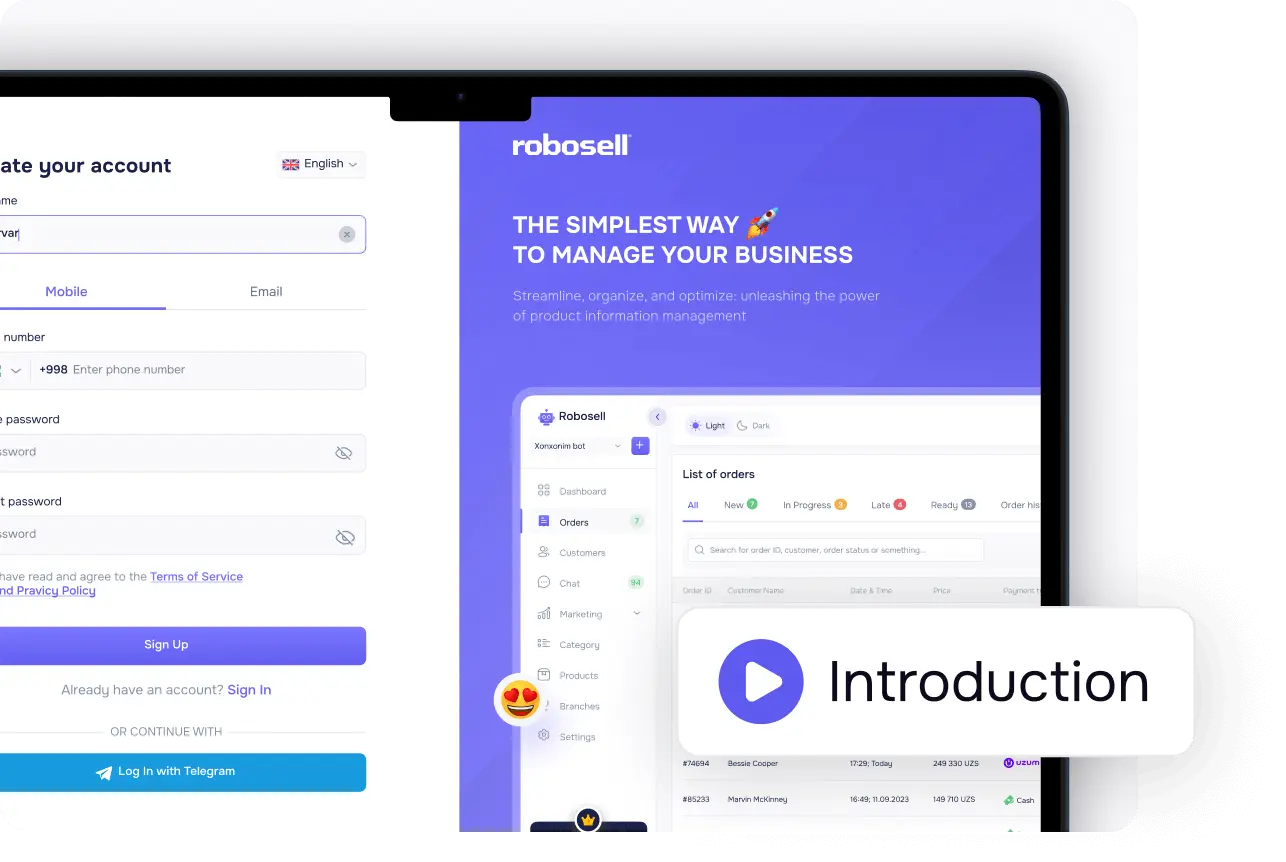
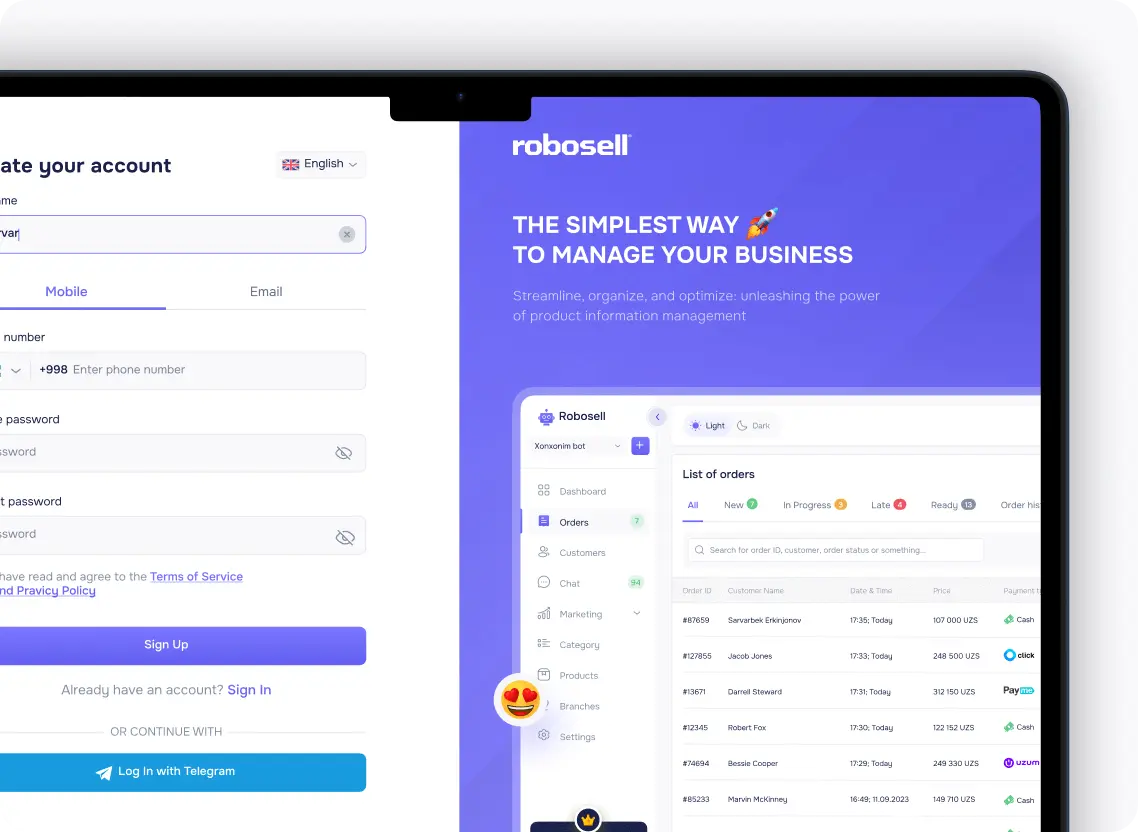
fix: anim

diff --git a/src/routes/home/components/instructions/instructions.tsx b/src/routes/home/components/instructions/instructions.tsx
@@ -1,45 +1,88 @@
 import Image from 'next/image'
 import Stack from '@mui/material/Stack'
+import Dialog from '@mui/material/Dialog'
 import { INSTRUCTIONS } from './constants'
-import { Wrapper, Container } from './style'
+import { IconPlay } from '@/assets/icons/play'
+import { useBoolean } from '@/hooks/useBoolean'
 import Typography from '@mui/material/Typography'
+import { Wrapper, WrapPlay, Container } from './style'
 import ImageHowWorksInstruction from '@/assets/images/how-works-instruction.webp'
 
 export const Instructions = () => {
+	const mouse = useBoolean()
+	const modal = useBoolean()
+
 	return (
-		<Container>
-			<Wrapper>
-				<Stack pt='18px'>
-					<Image fill src={ImageHowWorksInstruction.src} alt='res' />
-				</Stack>
-				<Stack>
-					<Typography variant='title10' component='h2'>
-						How It Works
-					</Typography>
-					<Typography mb='24px' component='h3' variant='text10'>
-						It takes only{' '}
-						<Typography component='span' fontWeight='500' variant='inherit' color='colors.BLACK'>
-							15 minutes
-						</Typography>{' '}
-						to create a store and you can start selling
-					</Typography>
-					<Stack component='ul'>
-						{INSTRUCTIONS.map((instruction, i: number) => (
-							<Stack gap='16px' key={i} component='li' direction='row' alignItems='center'>
-								<Typography>{i + 1}</Typography>
-								<Stack>
-									<Typography variant='title60' lineHeight='32px'>
-										{instruction.title}
-									</Typography>
-									<Typography variant='text20' lineHeight='20px'>
-										{instruction.text}
-									</Typography>
-								</Stack>
+		<>
+			<Container>
+				<Wrapper>
+					<Stack
+						pt='18px'
+						position='relative'
+						onMouseEnter={mouse.setTrue}
+						onMouseLeave={mouse.setFalse}
+					>
+						<Image fill src={ImageHowWorksInstruction.src} alt='res' />
+						<WrapPlay
+							whileHover={{
+								scale: '1.1',
+							}}
+							onClick={modal.setTrue}
+							style={{
+								bottom: mouse.value || modal.value ? 'calc(50% - 75px)' : '30px',
+								right: mouse.value || modal.value ? 'calc(50% - 130px)' : '-40px',
+							}}
+						>
+							<Stack>
+								<IconPlay />
 							</Stack>
-						))}
+							<Typography fontWeight='400' variant='title90' component='h5'>
+								Introduction
+							</Typography>
+						</WrapPlay>
 					</Stack>
-				</Stack>
-			</Wrapper>
-		</Container>
+					<Stack>
+						<Typography variant='title10' component='h2'>
+							How It Works
+						</Typography>
+						<Typography mb='24px' component='h3' variant='text10'>
+							It takes only{' '}
+							<Typography component='span' fontWeight='500' variant='inherit' color='colors.BLACK'>
+								15 minutes
+							</Typography>{' '}
+							to create a store and you can start selling
+						</Typography>
+						<Stack component='ul'>
+							{INSTRUCTIONS.map((instruction, i: number) => (
+								<Stack gap='16px' key={i} component='li' direction='row' alignItems='center'>
+									<Typography>{i + 1}</Typography>
+									<Stack>
+										<Typography variant='title60' lineHeight='32px'>
+											{instruction.title}
+										</Typography>
+										<Typography variant='text20' lineHeight='20px'>
+											{instruction.text}
+										</Typography>
+									</Stack>
+								</Stack>
+							))}
+						</Stack>
+					</Stack>
+				</Wrapper>
+			</Container>
+			<Dialog fullWidth open={modal.value} onClose={modal.setFalse}>
+				<iframe
+					frameBorder='0'
+					title='YouTube video player'
+					referrerPolicy='strict-origin-when-cross-origin'
+					src='https://www.youtube.com/embed/7_N6dy-pHho?si=wmQgUqPexj38Y1BE'
+					allow='accelerometer; autoplay; clipboard-write; encrypted-media; gyroscope; picture-in-picture; web-share'
+					style={{
+						width: '100%',
+						height: '50vh',
+					}}
+				/>
+			</Dialog>
+		</>
 	)
 }

diff --git a/src/routes/home/components/instructions/style.ts b/src/routes/home/components/instructions/style.ts
@@ -1,3 +1,4 @@
+import { motion } from 'framer-motion'
 import { styled } from '@mui/material/styles'
 
 export const Container = styled('section')`
@@ -18,4 +19,21 @@ export const Wrapper = styled('div')`
 			gridTemplateColumns: '100%',
 		},
 	})};
+`
+
+export const WrapPlay = styled(motion.div)`
+	gap: 12px;
+	display: flex;
+	padding: 0 22px;
+	cursor: pointer;
+	min-width: 260px;
+	width: fit-content;
+	position: absolute;
+	align-items: center;
+	border-radius: 11.818px;
+	transition: all 0.5s ease-in-out;
+	backdrop-filter: blur(9.454545021057129px);
+	box-shadow: 0px 7.091px 44.909px rgba(0, 0, 0, 0.19);
+	background: ${({ theme }) => theme.palette.colors.WHITE};
+	border: 1.182px solid ${({ theme }) => theme.palette.colors.GRAY190};
 `

diff --git a/src/assets/icons/play.tsx b/src/assets/icons/play.tsx
@@ -1,0 +1,11 @@
+export const IconPlay = () => {
+	return (
+		<svg width='43' height='44' viewBox='0 0 43 44' fill='none' xmlns='http://www.w3.org/2000/svg'>
+			<circle cx='21.5455' cy='21.8181' r='21.2727' fill='#5D59F0' />
+			<path
+				d='M30.6028 24.4566L18.4943 31.3758C16.4684 32.5335 13.9476 31.0706 13.9476 28.7373V14.8989C13.9476 12.5655 16.4684 11.1027 18.4943 12.2604L30.6028 19.1795C32.6445 20.3462 32.6445 23.29 30.6028 24.4566Z'
+				fill='white'
+			/>
+		</svg>
+	)
+}

diff --git a/src/constants/css.ts b/src/constants/css.ts
@@ -39,6 +39,7 @@ export const COLORS = {
 	GRAY160: '#EAECF0',
 	GRAY170: '#0000000f',
 	GRAY180: '#e3eaf4cc',
+	GRAY190: '#e8e8e8',
 	LINEAR_GRADIENT: 'linear-gradient(91deg, #FEFEFE 2.38%, #FFD1C2 64.26%, #D594DD 100%)',
 	LINEAR_GRADIENT10: 'linear-gradient(180deg, rgba(0, 0, 0, 0) 0%, #000 100%)',
 }
